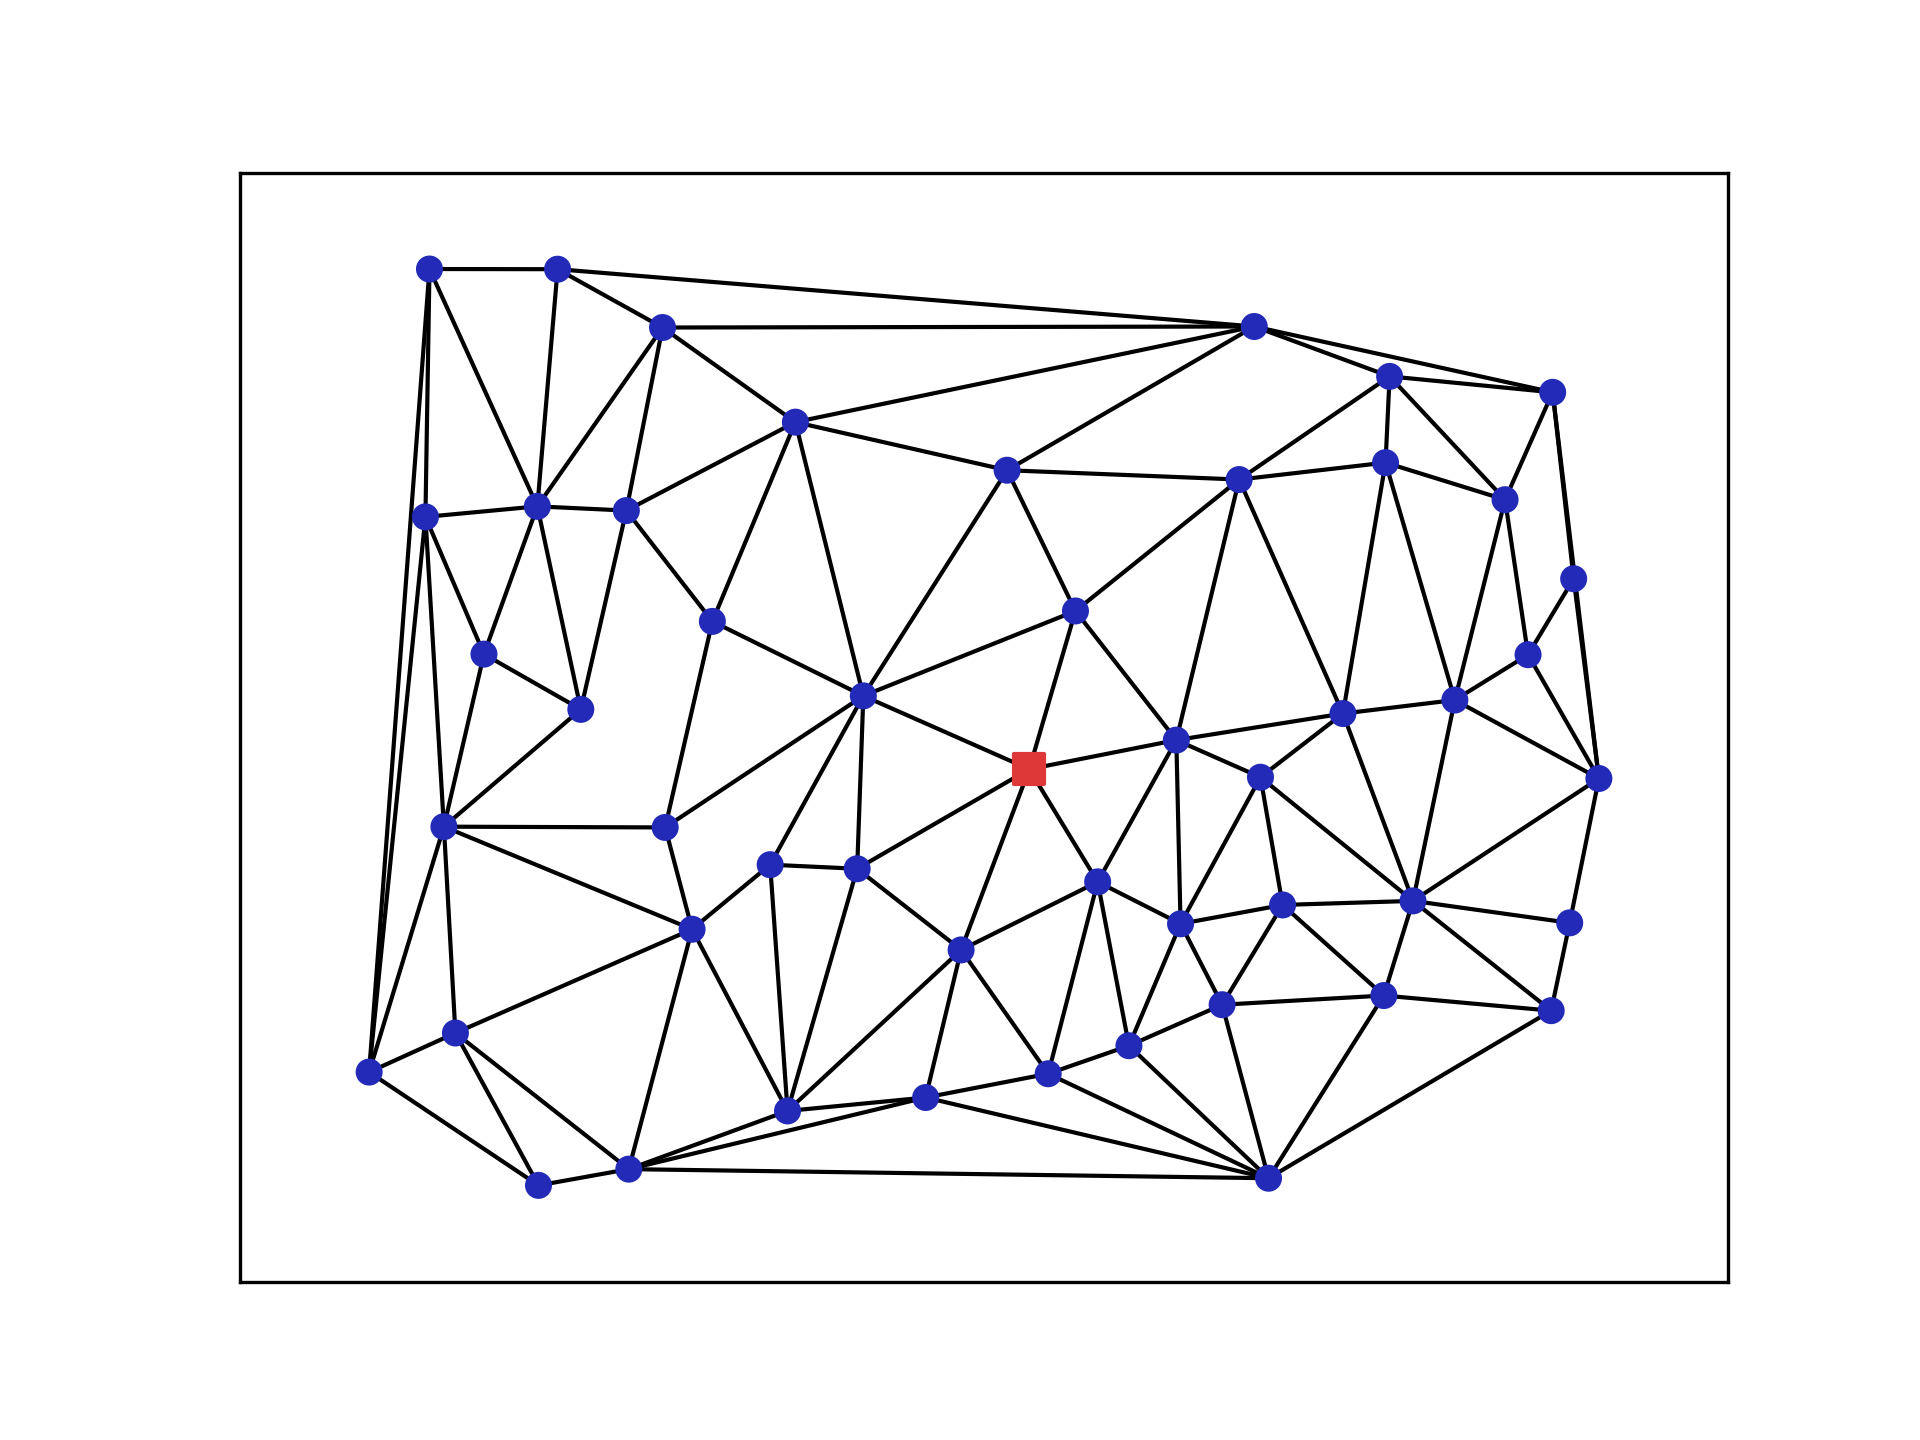
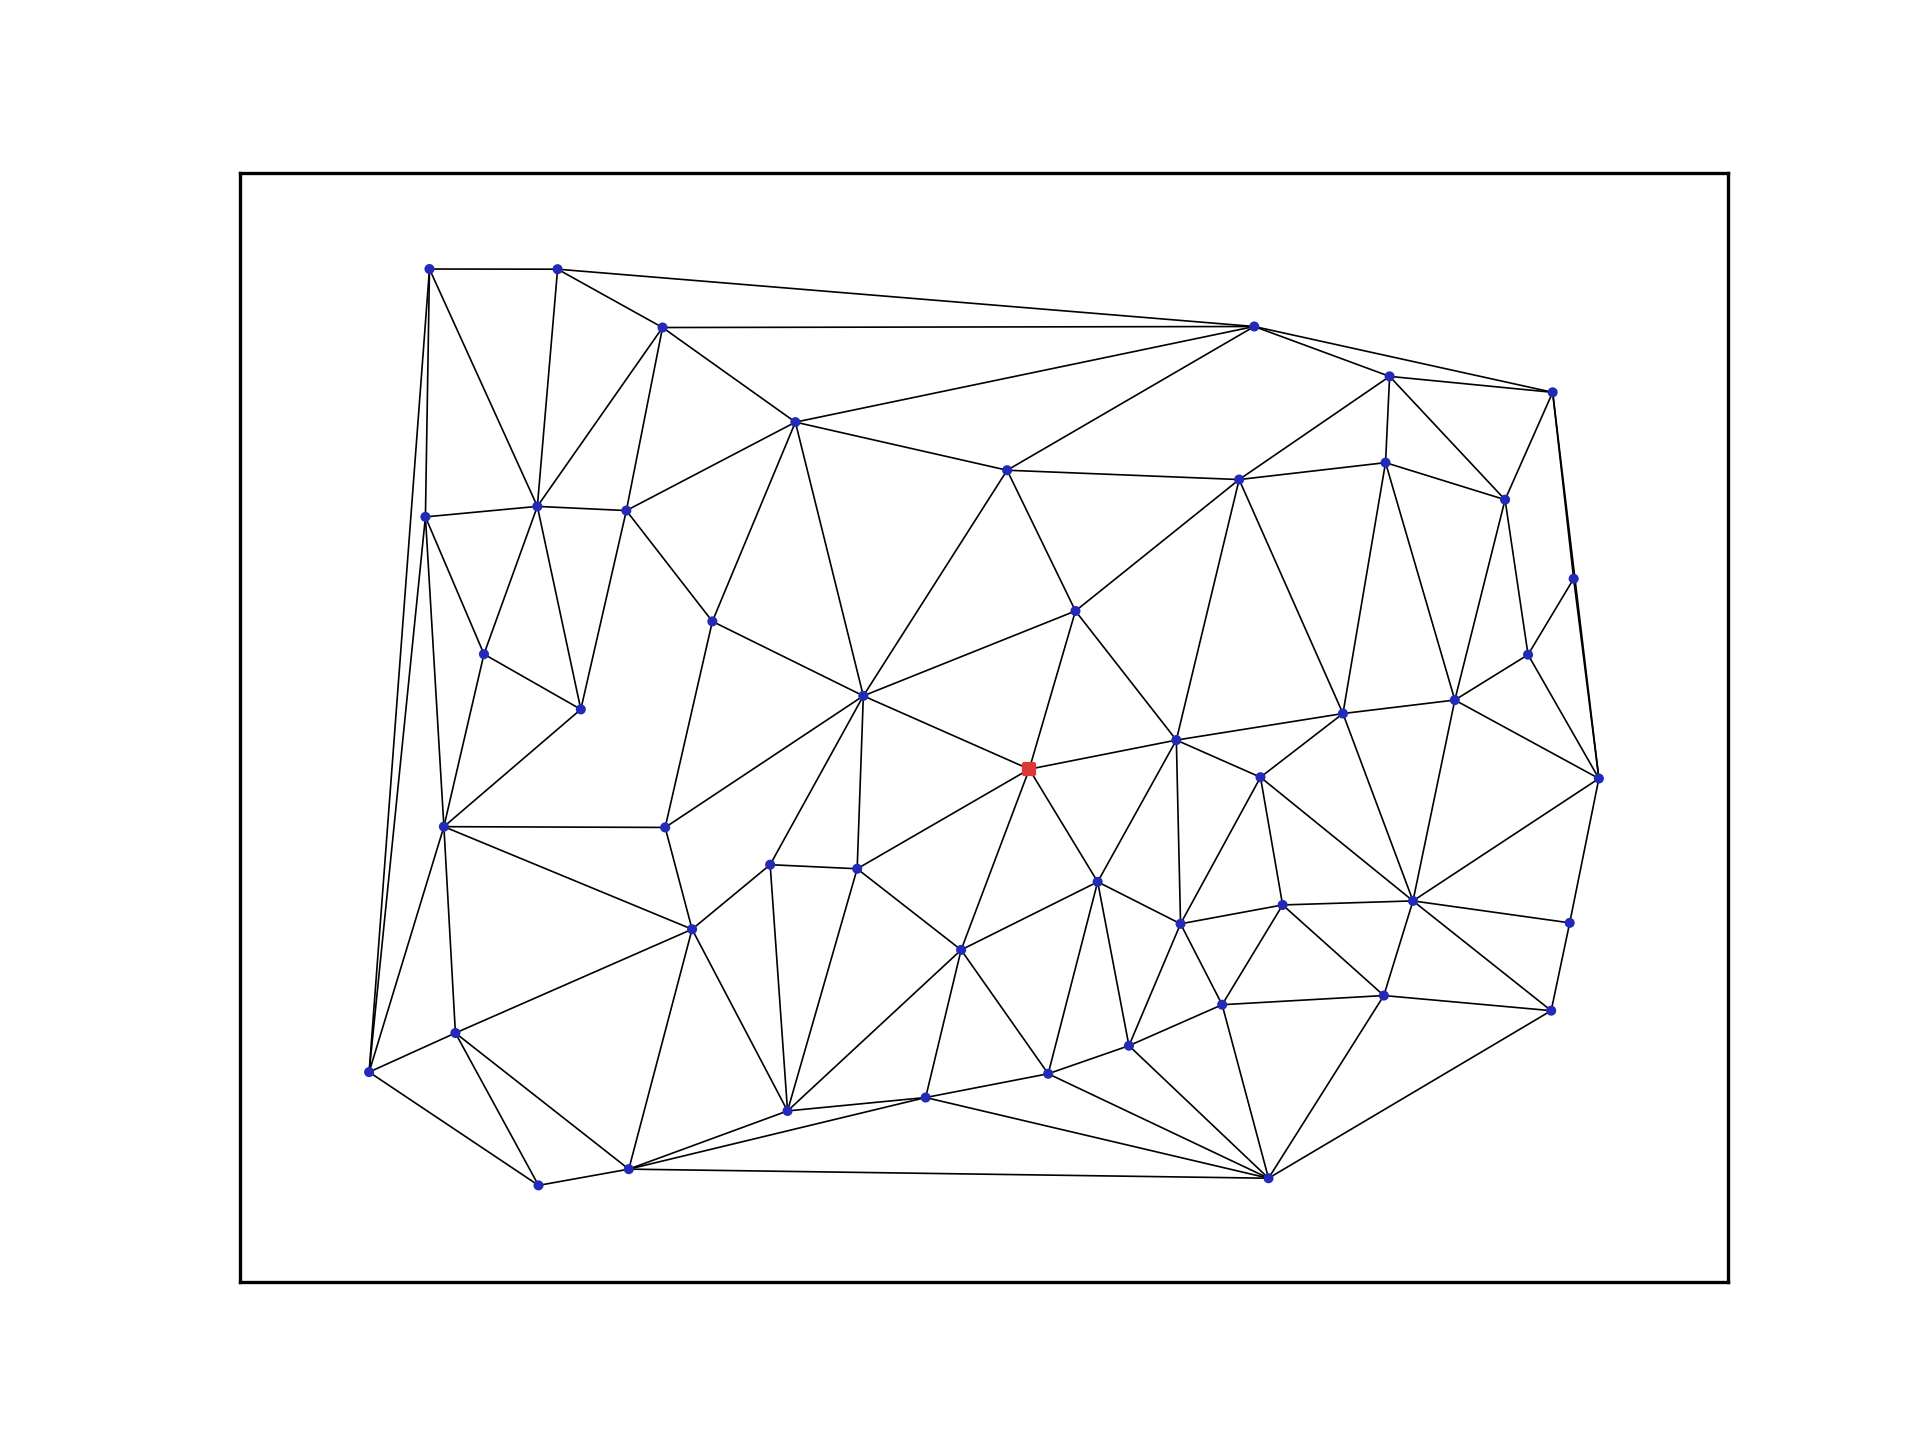
update on drawings

diff --git a/draw_graphs.py b/draw_graphs.py
@@ -31,9 +31,15 @@ def Draw_Picture(Input: InputStructure, Output: OutputStructure, WithOld: Boolea
     edgelistAs = []     #selected
     edgelistAsc = []     #selected color
     edgelistAsw = []     #selected color
-
-
     edgelistO = []
+
+    TmpGap = 0
+    TmpN   = 0
+
+    if WithOld == True:
+        TmpGap = Input.CntA
+        TmpN   = len(Input.OA[0,:])
+
 
     edge_colors= ["#737373","#000000","#de3737","#80d189","#ccbfbe","#ccbfbe","#ccbfbe"]
 
@@ -55,21 +61,42 @@ def Draw_Picture(Input: InputStructure, Output: OutputStructure, WithOld: Boolea
             if Input.A[i,j] > 0.5:
                 edgelistO.append((i,j))
 
+    
+    if WithOld == True:
+        for i in range(TmpN-1):
+            for j in range(i+1, TmpN):
+                if Input.OA[i][j] > 0.5:
+                    edgelistAs.append((i+TmpGap,j+TmpGap))
+                    edgelistAsc.append(edge_colors[0])
+                    edgelistAsw.append(1)
 
-    NodeE = set()
+
+
+    NodeES = set()
+    NodeEN = set()
     for i in range(Input.n-1):
         for j in range(i+1, Input.n):
             if Output.X[i][j] > 0.5:
-                NodeE.update(set([i]))
-                NodeE.update(set([j]))
+                NodeES.update(set([i]))
+                NodeES.update(set([j]))
+            if Input.A[i][j] > 0.5:
+                NodeEN.update(set([i]))
+                NodeEN.update(set([j]))
+
+    NodeEN = NodeEN - NodeES
 
 
     Positions = {}
     n = Input.n
     for x in range(Input.n):
         Positions[x]=(Input.Pos[x][0],Input.Pos[x][1])
+    
+    if WithOld == True:
+        for x in range(TmpN):
+            Positions[x+TmpGap] = (Input.OP[x][0],Input.OP[x][1])
 
-    node_colors= ["#232ab8","#de3737","#80d189","#80d189","#ccbfbe","#ccbfbe","#ccbfbe"]
+
+    node_colors= ["#232ab8","#f70000","#b1b3b1","#80d189","#ccbfbe","#ccbfbe","#ccbfbe"]
     node_sizes = [30,50,7000,9000,11000,13000,15000]
     node_shapes = ['s', 'o']
 
@@ -82,20 +109,30 @@ def Draw_Picture(Input: InputStructure, Output: OutputStructure, WithOld: Boolea
             G.nodes[a]['edgecolor'] = node_colors[1]
             G.nodes[a]['size'] = node_sizes[1]
             G.nodes[a]['shape'] = node_shapes[0]
-        elif a in NodeE:
+        elif a in NodeES:
             G.nodes[a]['color'] = node_colors[0]
             G.nodes[a]['size'] = node_sizes[0]
             G.nodes[a]['edgecolor'] = node_colors[1]
             G.nodes[a]['shape'] = node_shapes[1]
-        else:
+        elif a in NodeEN:
+            G.nodes[a]['color'] = node_colors[0]
+            G.nodes[a]['size'] = node_sizes[0]
+            G.nodes[a]['edgecolor'] = node_colors[0]
+            G.nodes[a]['shape'] = node_shapes[1]
+        elif a in Input.LN:
             G.nodes[a]['color'] = node_colors[2]
             G.nodes[a]['size'] = node_sizes[0]
+            G.nodes[a]['edgecolor'] = node_colors[2]
+            G.nodes[a]['shape'] = node_shapes[1]
+        else:
+            G.nodes[a]['color'] = node_colors[2]
+            G.nodes[a]['size'] = 0
             G.nodes[a]['edgecolor'] = node_colors[2]
             G.nodes[a]['shape'] = node_shapes[1]
 
     #nx.draw(G, Positions)
     G.add_edges_from(edgelistAs)
-    nx.draw_networkx_edges(G, Positions, edge_color=edgelistAsc, width= edgelistAsw)
+    nx.draw_networkx_edges(G, Positions, edge_color=edgelistAsc, width=edgelistAsw)
 
     for shape in set(node_shapes):
         # the nodes with the desired shapes

diff --git a/IsolatingData.py b/IsolatingData.py
@@ -126,12 +126,18 @@ def Write_Draw(Input: InputStructure, Output: OutputStructure):
                 edgelistC.append(edge_colors[0])
 
 
-    NodeE = set()
+    NodeES = set()
+    NodeEN = set()
     for i in range(Input.n-1):
         for j in range(i+1, Input.n):
             if Output.X[i][j] > 0.5:
-                NodeE.update(set([i]))
-                NodeE.update(set([j]))
+                NodeES.update(set([i]))
+                NodeES.update(set([j]))
+            elif Input.A[i,j] > 0.5:
+                NodeEN.update(set([i]))
+                NodeEN.update(set([j]))
+    
+    NodeEN = NodeEN - NodeES
 
 
     Positions = {}
@@ -153,7 +159,7 @@ def Write_Draw(Input: InputStructure, Output: OutputStructure):
             G.nodes[a]['color'] = node_colors[1]
             G.nodes[a]['size'] = node_sizes[1]
             G.nodes[a]['shape'] = node_shapes[0]
-        elif a in NodeE:
+        elif a in NodeES:
             G.nodes[a]['color'] = node_colors[0]
             G.nodes[a]['size'] = node_sizes[0]
             G.nodes[a]['shape'] = node_shapes[1]
@@ -198,7 +204,7 @@ def Write_Draw(Input: InputStructure, Output: OutputStructure):
 
 
     
-    NodeNotInList = [x for x in range(Input.n) if x not in NodeE]
+    NodeNotInList = [x for x in range(Input.n) if x not in NodeES]
 
     # GETTING ALL THE NODES for the edge which are not on the map
     
@@ -252,7 +258,7 @@ def Write_Draw(Input: InputStructure, Output: OutputStructure):
         exit(993)
 
     out = open(FNAMED,'wb')
-    tmp_dic = {'A':New_A, 'X':New_X , 'T':Input.Theta, 'R': New_sr, 'L':New_Lmt, 'P':NewPositions, 'OA':ReEdge, 'OP':Input.Pos}
+    tmp_dic = {'A':New_A, 'X':New_X , 'T':Input.Theta, 'R': New_sr, 'L':New_Lmt, 'P':NewPositions, 'OA':ReEdge, 'OP':Input.Pos, 'LN': list(NodeES)}
 
     pickle.dump(tmp_dic, out)
     out.close()
@@ -260,12 +266,12 @@ def Write_Draw(Input: InputStructure, Output: OutputStructure):
 
 def ExtactingNodes():
     
-    St = 254
+    St = 255
     Ed = 256
 
     for x in range(St, Ed):
 
-        InputDt = read_data(x, INCLUDE_OLD=False, YUE=True)
+        InputDt = read_data(x, INCLUDE_OLD=False, YUE=False)
 
         Draw_original(InputDt)
 

diff --git a/gurobi_eng.py b/gurobi_eng.py
@@ -128,11 +128,12 @@ def Gurobi_Solve(InputData: InputStructure, Lazy = True):
         OutData.Obj = m.objVal
         
         # testing the solution
-        test_x = x.X
-        Visited = subtour(test_x, InputData.n)
-        for x in Visited:
-            if not x:
-                print("Solution is not valid!!")
+        if Lazy == True:
+            test_x = x.X
+            Visited = subtour(test_x, InputData.n)
+            for x in Visited:
+                if not x:
+                    print("Solution is not valid!!")
         print(OutData.Time)
         return OutData
         

diff --git a/data_structures.py b/data_structures.py
@@ -50,6 +50,7 @@ class InputStructure():
 
         self.OA = np.empty
         self.OP = {}
+        self.LN = np.empty
         self.On = -1
 
         self.ERR_A_Diagonal = 0
@@ -115,10 +116,11 @@ class InputStructure():
         self.XTW = self.XT @ self.AAXTR.transpose() #n-d2 . d2-1 = n-1
         self.AAXTR = self.AAXT[self.sr,:]           #row of n-d2 = 1 by d2
 
-    def getting_old(self, OA, OP):
+    def getting_old(self, OA, OP, LN):
         self.OA = OA
         self.OP = OP
         self.On = len(OA[0,:])
+        self.LN = LN
 
 
     def show(self):

diff --git a/reading_pickles.py b/reading_pickles.py
@@ -61,7 +61,7 @@ def read_data(Index, INCLUDE_OLD = False, YUE=False):
     InputDt = InputStructure(Index, path_to_file, Fname, A, X, T, R, L, P)
 
     if INCLUDE_OLD:
-        InputDt.getting_old(OA= Info['OA'], OP= Info['OP'])
+        InputDt.getting_old(OA= Info['OA'], OP= Info['OP'], LN=Info['LN'])
 
     return InputDt
 

diff --git a/main.py b/main.py
@@ -45,7 +45,7 @@ def RunWithOld():
         print("Problem solved")
         #Save data and result
         Write_Result(InputDt, ResultDt)
-        Draw_Picture(InputDt, ResultDt)
+        Draw_Picture(InputDt, ResultDt, WithOld=True)
 
 if __name__ == '__main__':
     RunWithOld()
